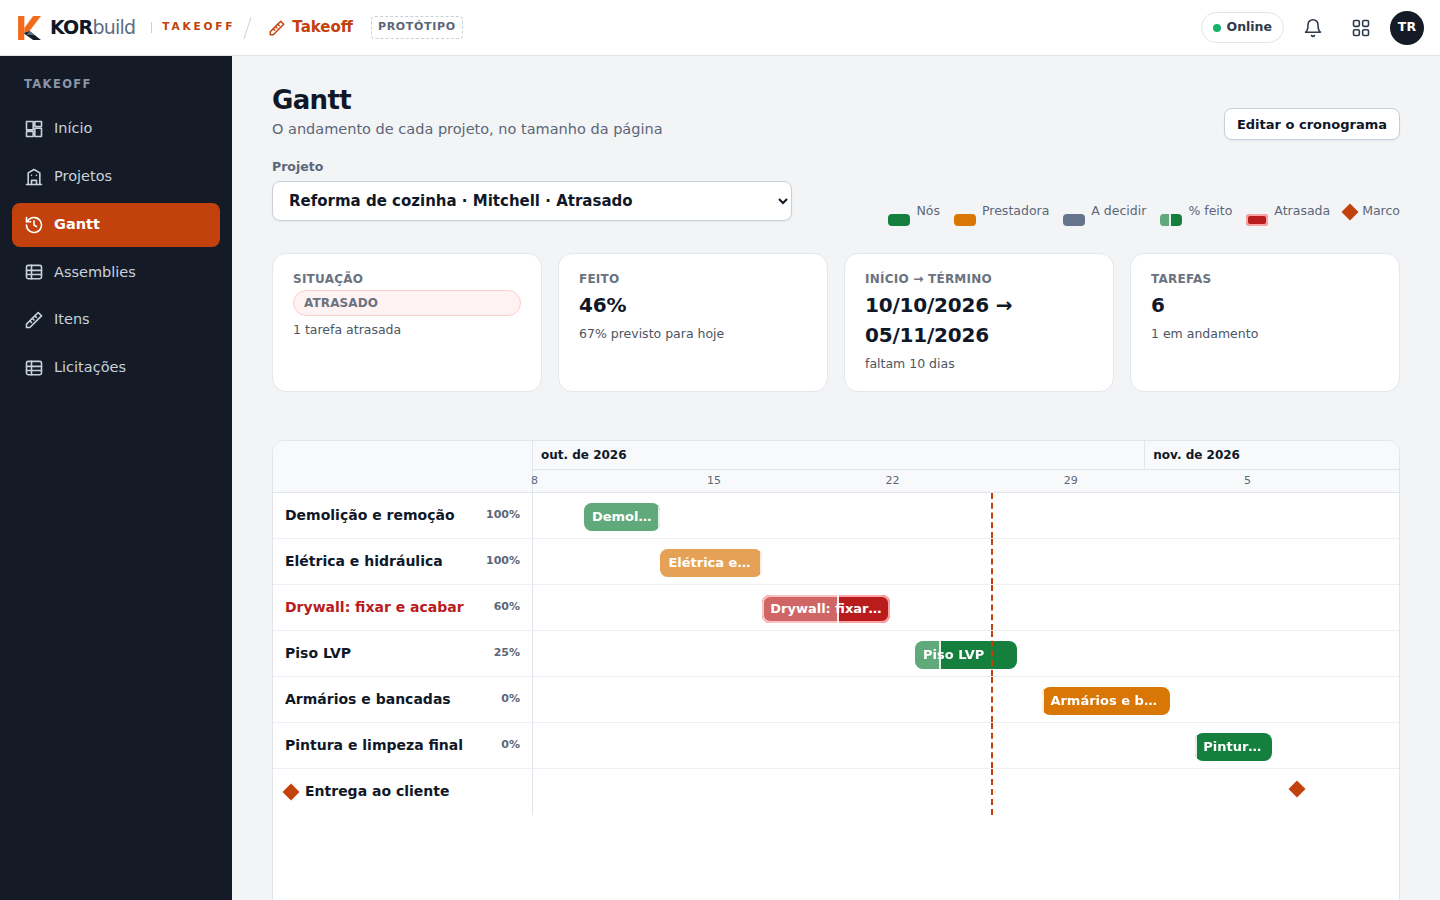
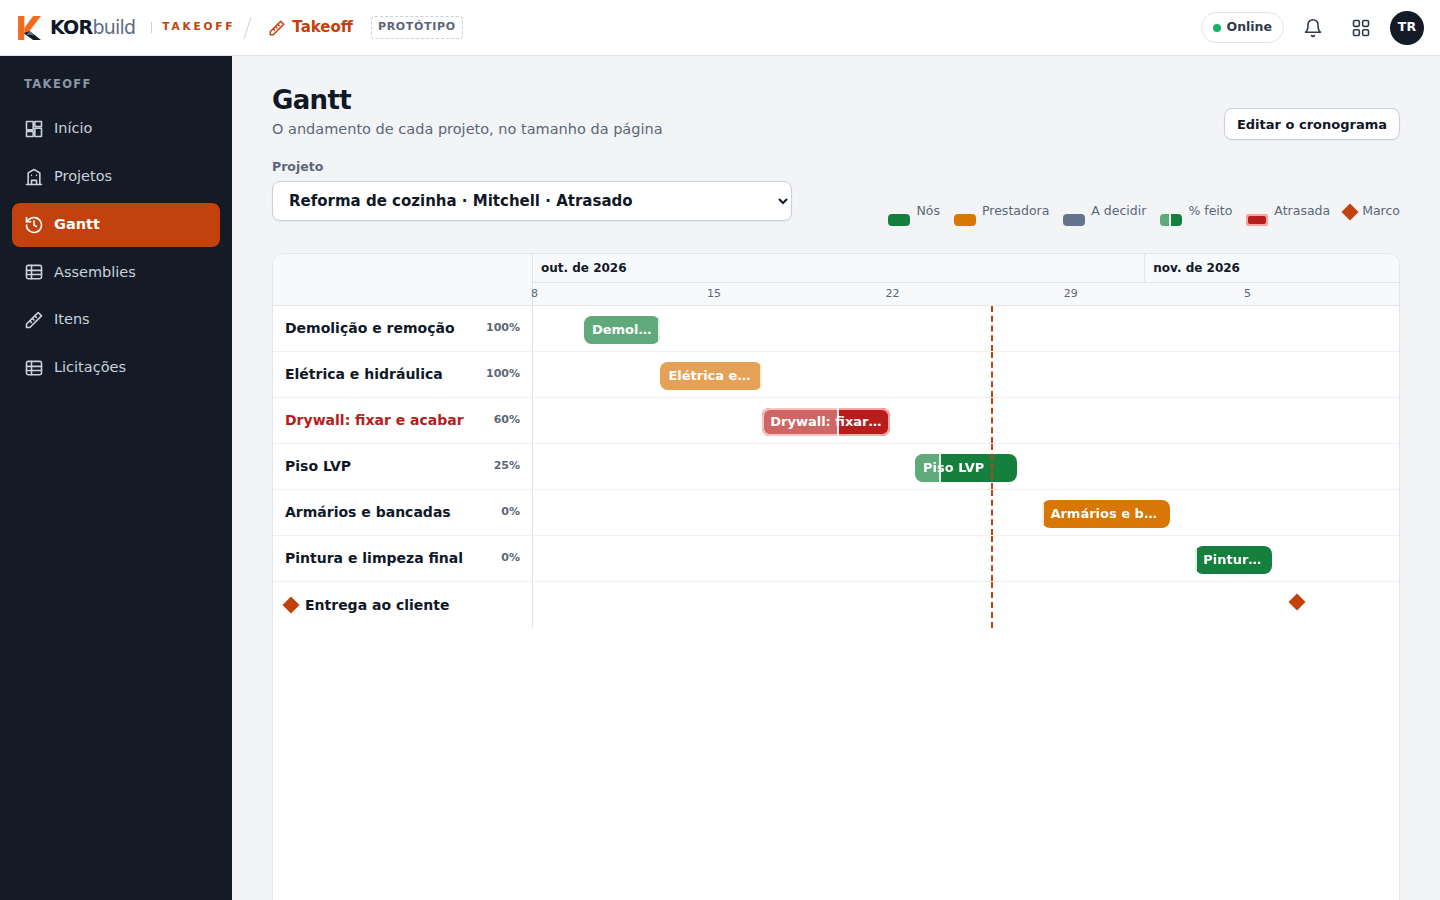
entregas: Gantt sem os cartões
Claude-Session: https://claude.ai/code/session_01Ep8bJsuQq2bqGePCMzzux2

diff --git a/entregas/projeto-espaco/homologacao/lista-checagem-primeira-versao.md b/entregas/projeto-espaco/homologacao/lista-checagem-primeira-versao.md
@@ -413,9 +413,9 @@ Marque `[x]` quando passar; se falhar, escreva ao lado o que viu (tela, login, h
 - [ ] **T178** · `pv.p1.admin` — Projeto › Schedule › tarefa com término já passado e % abaixo de 100  
   _Esperado:_ A tarefa aparece atrasada: nome e barra em vermelho; em 100% deixa de estar atrasada
 - [ ] **T179** · `pv.p1.admin` — Menu › Gantt  
-  _Esperado:_ Abre a página do Gantt no projeto mais urgente (atrasados primeiro), com a lista de projetos, os indicadores (situação, feito × previsto, início → término, tarefas) e o gráfico no tamanho da página
+  _Esperado:_ Abre a página do Gantt no projeto mais urgente (atrasados primeiro), com a lista de projetos e o gráfico no tamanho da página
 - [ ] **T180** · `pv.p1.admin` — Gantt › trocar o projeto na lista  
-  _Esperado:_ O endereço muda (#/measure/gantt/<projeto>) e o gráfico e os indicadores passam a ser do projeto escolhido; a lista marca quem está Atrasado
+  _Esperado:_ O endereço muda (#/measure/gantt/<projeto>) e o gráfico passa a ser do projeto escolhido; a lista marca quem está Atrasado
 - [ ] **T181** · `pv.p1.admin` — Gantt › Editar o cronograma / Linha do tempo › Tela inteira  
   _Esperado:_ Vai e volta entre a aba Schedule do projeto e a página do Gantt
 - [ ] **T182** · `pv.p1.admin` — Início › Andamento dos projetos  

diff --git a/entregas/projeto-espaco/andamento-gantt.md b/entregas/projeto-espaco/andamento-gantt.md
@@ -11,7 +11,7 @@ Pedido do dono (27/10): o Início precisa mostrar uma prévia do andamento dos p
 
 ## Onde aparece
 - **Schedule do projeto:** coluna % feito; na linha do tempo, a barra preenche o % e a tarefa atrasada fica vermelha (nome e barra); atalho **Tela inteira** para a página do Gantt.
-- **Página Gantt** (`#/measure/gantt/<projeto>`, item Gantt no menu): lista de projetos com cronograma (atrasados primeiro, com "· Atrasado" no nome), quatro indicadores (situação, feito × previsto, início → término, tarefas) e o gráfico no tamanho da página. Botão **Editar o cronograma** leva à aba Schedule.
+- **Página Gantt** (`#/measure/gantt/<projeto>`, item Gantt no menu): lista de projetos com cronograma (atrasados primeiro, com "· Atrasado" no nome), e o gráfico no tamanho da página. Botão **Editar o cronograma** leva à aba Schedule.
 - **Início › Andamento dos projetos:** primeiro bloco do painel. Uma linha por projeto: situação, barra do feito com o tracejado do previsto, a tarefa mais atrasada (ou o término previsto / data de início); resumo com atrasados, em dia, não iniciados, concluídos e projetos ganhos sem cronograma. Cada linha abre o Gantt do projeto.
 
 ## Dados de demonstração
